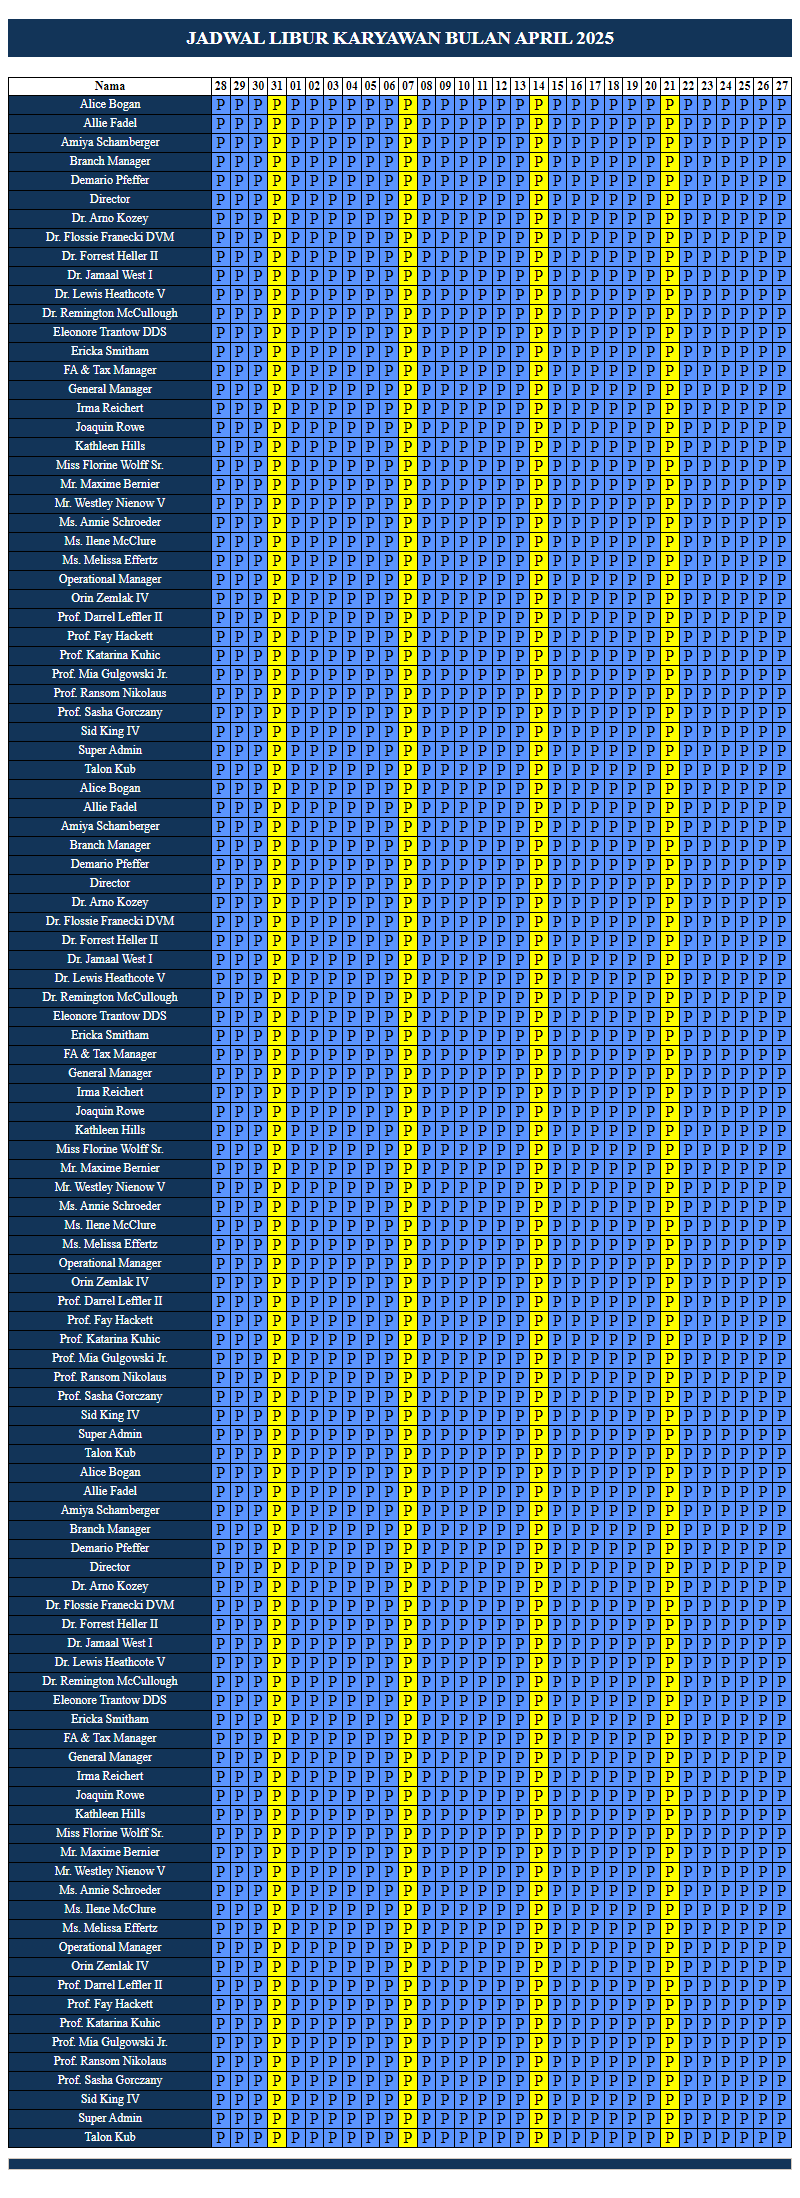
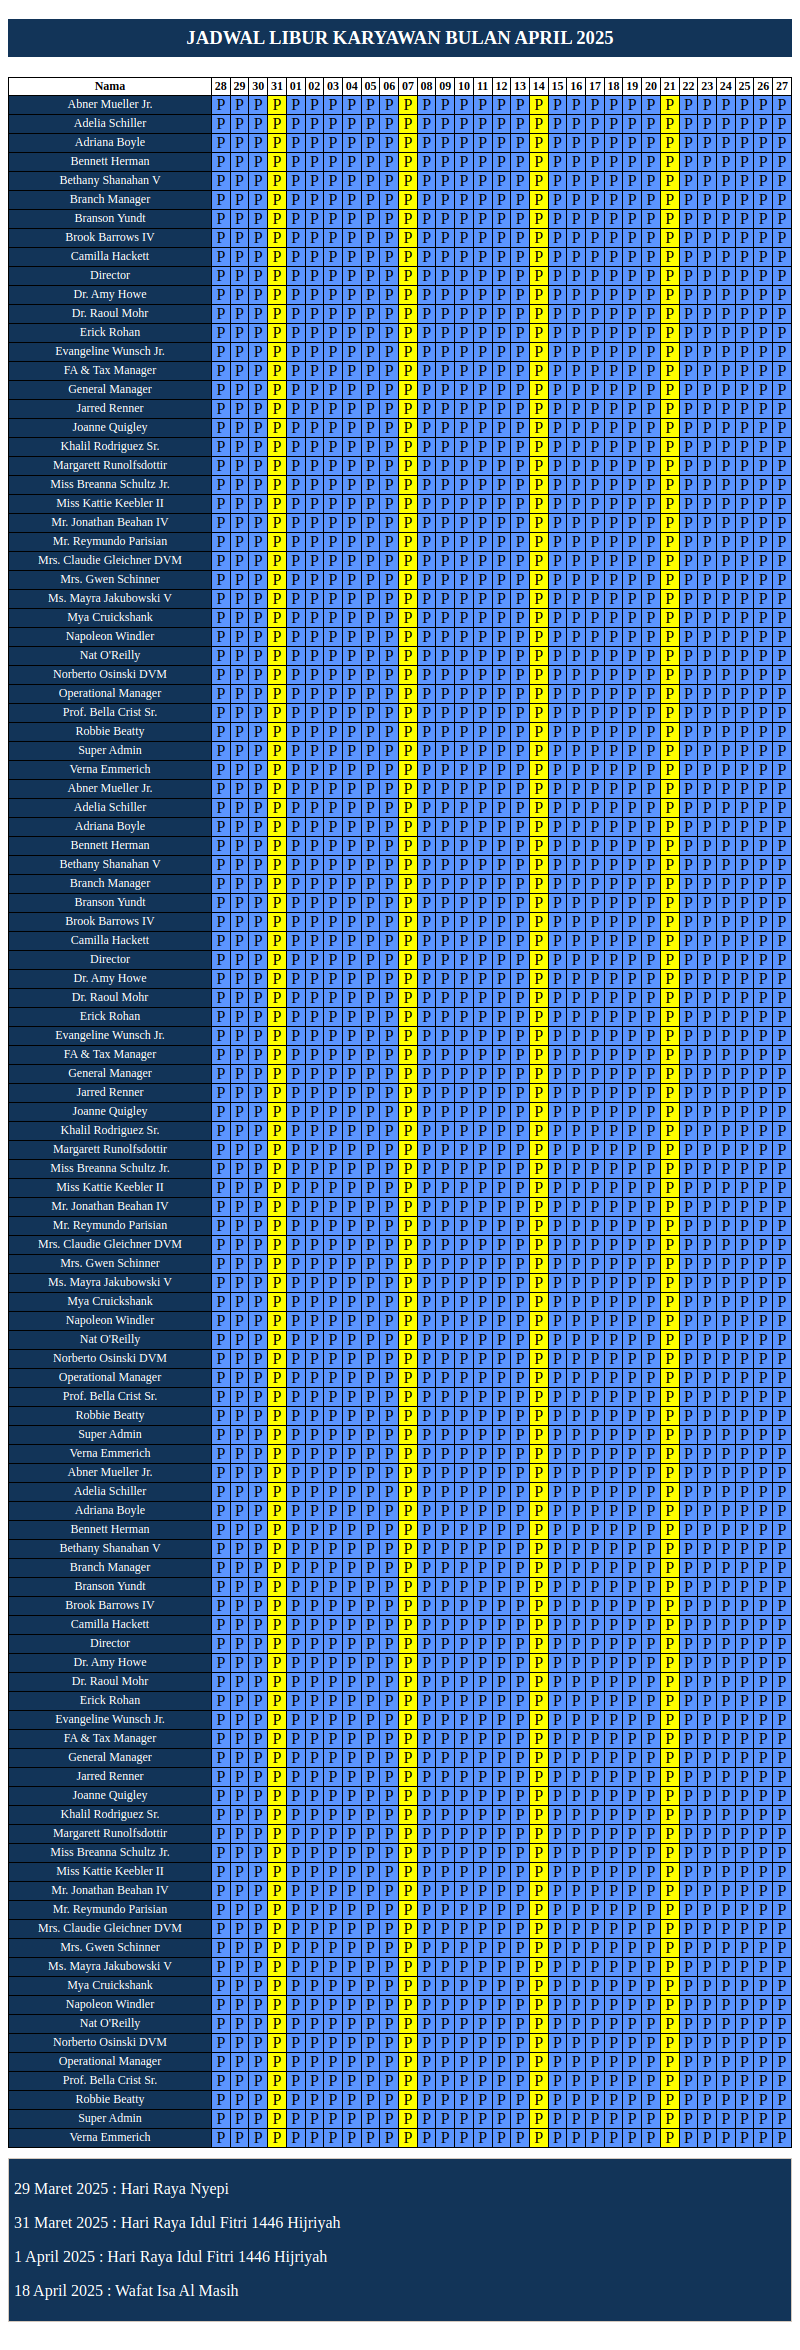
update

diff --git a/resources/views/pages/transactions/index.blade.php b/resources/views/pages/transactions/index.blade.php
@@ -40,8 +40,9 @@
                     <div class="d-flex align-items-center">
                         <div>
                             <form id="form-delete" @submit.prevent="destroy()" class="me-2">
+                                <input type="hidden" :name="`id[]`" :value="selectedCheckBox">
                                 <button type="submit" class="btn btn-light-danger btn-sm mt-5"
-                                        x-show="selectedCheckBox.length > 0 && hasLockedTransactions()"
+                                        x-show="selectedCheckBox.length > 0 && hasLockedTransactions() && !hasUnlockedTransactions()"
                                         x-transition x-cloak>
                                     <i class="ki-duotone ki-trash-square fs-2">
                                         <span class="path1"></span>
@@ -56,7 +57,7 @@
                         <div>
                             <template x-if="Number(finalApprovePermission) === 1">
                                 <button type="button" class="btn btn-light-info btn-sm mt-5"
-                                        x-show="selectedCheckBox.length > 0 && hasUnlockedTransactions()"
+                                        x-show="selectedCheckBox.length > 0 && hasUnlockedTransactions() && !hasLockedTransactions()"
                                         x-transition x-cloak data-bs-target="#modal-confirm"
                                         data-bs-toggle="modal">
                                     <i class="ki-duotone ki-double-check">
@@ -74,10 +75,6 @@
                         <thead>
                         <tr class="text-start text-muted fw-bolder fs-7 text-uppercase gs-0">
                             <th class="w-10px pe-2">
-                                <div class="form-check form-check-sm form-check-custom form-check-solid me-3">
-                                    <input class="form-check-input" type="checkbox"
-                                           @click="toggleAllCheckBox()">
-                                </div>
                             </th>
                             <th class="min-w-125px text-center">Informasi Transaksi</th>
                             <th class="min-w-125px text-center">Akun</th>
@@ -401,6 +398,7 @@
                     await this.selectedCreditAccount();
                 },
                 async destroy() {
+                    console.log(this.selectedCheckBox);
                     showConfirmModal("Anda yakin?", "Data akan hilang.", "Ya, Hapus!", async () => {
                         try {
                             await axios.post(`/transactions/destroy`, new FormData(this.formDelete));

diff --git a/app/Http/Controllers/TransactionController.php b/app/Http/Controllers/TransactionController.php
@@ -5,8 +5,6 @@ namespace App\Http\Controllers;
 use AllowDynamicProperties;
 use App\Http\Requests\TransactionConfirmationRequest;
 use App\Http\Requests\TransactionRequest;
-use App\Models\AccountTransaction;
-use App\Models\Stock;
 use App\Models\Transaction;
 use App\Support\Transactions\TransactionService;
 use Illuminate\Auth\Access\AuthorizationException;
@@ -97,6 +95,7 @@ use Throwable;
      */
     public function lockTransaction(Transaction $transaction): JsonResponse
     {
+        $this->authorize('lockStatus', $transaction);
         $this->transactionService->lockTransaction($transaction);
         return response()->json([
             'message' => 'data berhasil dikunci'
@@ -109,6 +108,7 @@ use Throwable;
      */
     public function confirm(Transaction $transaction, TransactionConfirmationRequest $request): JsonResponse
     {
+        $this->authorize('confirm', $transaction);
         $this->transactionService->confirm($transaction, $request);
         return response()->json([
             'message' => 'data berhasil dibuka'
@@ -122,12 +122,12 @@ use Throwable;
      */
     public function destroy(Request $request, Transaction $transaction): JsonResponse
     {
+        $this->authorize('delete', Transaction::class);
+        $implodeID = implode(',', $request->get('id'));
+
         DB::transaction(function () use ($request, $transaction) {
             $implodeID = implode(',', $request->get('id'));
             $explodeID = explode(',', $implodeID);
-
-            AccountTransaction::whereIn('transaction_id', $explodeID)->delete();
-            Stock::whereIn('transaction_id', $explodeID)->delete();
 
             $transaction->whereIn('id', $explodeID)->delete();
         });
@@ -142,15 +142,13 @@ use Throwable;
      */
     public function finalStatus(Transaction $transaction, TransactionConfirmationRequest $request): JsonResponse
     {
+        $this->authorize('lockStatus', Transaction::class);
         DB::transaction(function () use ($transaction, $request) {
             $this->transactionService->confirm($transaction, $request);
         });
-
 
         return response()->json([
             'message' => 'data berhasil dihapus'
         ]);
     }
-
-
 }

diff --git a/app/Http/Controllers/HRIS/Attendances/EmployeeScheduleController.php b/app/Http/Controllers/HRIS/Attendances/EmployeeScheduleController.php
@@ -6,8 +6,6 @@ use AllowDynamicProperties;
 use App\Http\Controllers\Controller;
 use App\Http\Requests\EmployeeScheduleRequest;
 use App\Models\EmployeeSchedule;
-use App\Models\NationalHoliday;
-use App\Models\User;
 use App\Models\WorkTime;
 use App\Support\Attendances\EmployeeSchedule\EmployeeScheduleService;
 use App\Support\HelperService\FinancialClosePeriodService;
@@ -185,11 +183,7 @@ use Throwable;
 
         $nationalHoliday = $nationalHolidayService->getNationalHoliday($startDate, $endDate);
 
-        $data = [
-            ...$this->employeeScheduleService->data($request),
-            ...$this->employeeScheduleService->data($request),
-            ...$this->employeeScheduleService->data($request),
-        ];
+        $data = $this->employeeScheduleService->data($request);
 
         $view = view('pages.adms.employee-schedules.schedules', compact('data', 'nationalHoliday'))->render();
 
@@ -203,7 +197,7 @@ use Throwable;
             ->ignoreHttpsErrors()
             ->margins(10, 10, 10, 10)
             ->fullPage()
-            ->save('test.jpg');
+            ->pdf();
 
 
         return new Response($pdf, 200, [

diff --git a/app/Policies/TransactionPolicy.php b/app/Policies/TransactionPolicy.php
@@ -26,14 +26,13 @@ class TransactionPolicy
         return $user->can('Hapus Data Transaksi');
     }
 
-    public function confirm(User $user): bool
+    public function lockStatus(User $user): bool
     {
-        return $user->can('Konfirmasi Data Transaksi');
+        return $user->can('Kunci Data Transaksi');
     }
 
-
-    public function finalApprove(User $user)
+    public function confirm(User $user): bool
     {
-        return $user->can('Final Approve Data Transaksi');
+        return $user->can('Setujui Data Transaksi');
     }
 }

diff --git a/app/Support/Journal/TrialBalanceService.php b/app/Support/Journal/TrialBalanceService.php
@@ -120,7 +120,7 @@ class TrialBalanceService
     {
         $query = AccountTransaction::with('account')
             ->whereHas('account', function ($query) use ($type) {
-                $query->where('trial_balance_type', 'debit');
+                $query->where('trial_balance_type', $type);
             })->where('entries_type', $type);
 
         if ($request->branch_id) {

diff --git a/database/seeders/PermissionSeeder.php b/database/seeders/PermissionSeeder.php
@@ -133,7 +133,7 @@ class PermissionSeeder extends Seeder
             'Tambah Data Transaksi',
             'Edit Data Transaksi',
             'Hapus Data Transaksi',
-            'Konfirmasi Data Transaksi',
+            'Kunci Data Transaksi',
             'Final Approve Data Transaksi'
         ];
 

diff --git a/resources/views/pages/adms/employee-schedules/schedules.blade.php b/resources/views/pages/adms/employee-schedules/schedules.blade.php
@@ -121,7 +121,6 @@
     <h3 class="table-title">
         JADWAL LIBUR KARYAWAN BULAN
         {{ strtoupper(\Carbon\Carbon::parse($data[0]['date']->last()['period_date'])->translatedFormat('F Y')) }}
-
     </h3>
 
     <div class="py-5">
